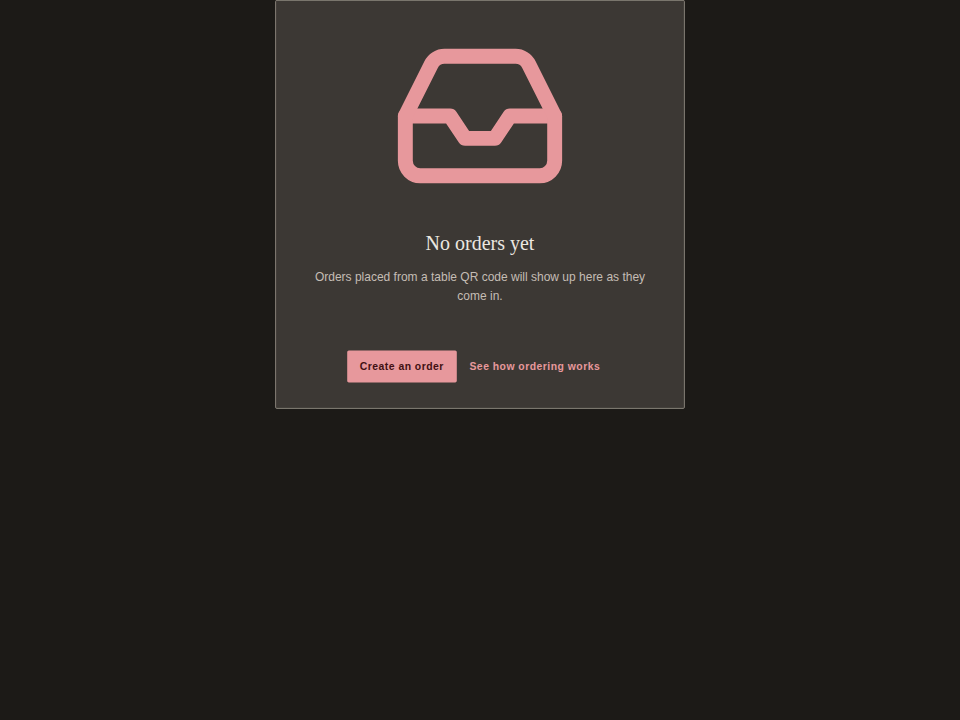
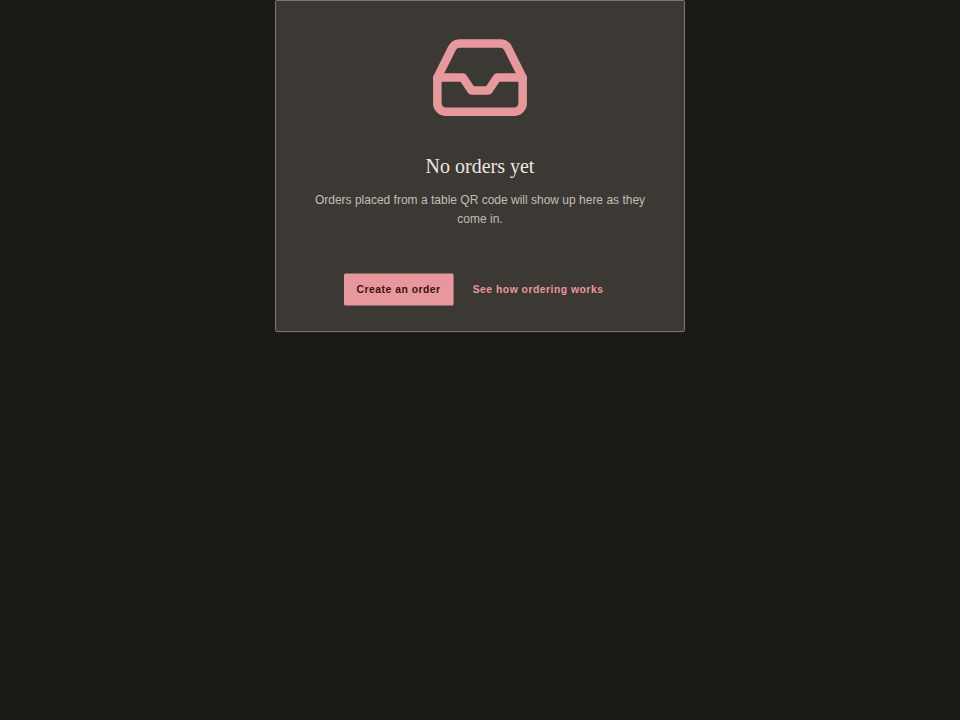
EmptyState's media follows its size, and a list row outside a list is not pressable
EmptyState drew its media from 128px up to 256px by the window's width,
with no prop for it, and its two actions touched. Three of the baseline's
builders passed a wrapper that threw the size away. The media now follows
size: 64dp, 128dp or 192dp, the same at every width; the actions sit 8dp
apart and wrap.

ListItem showed the pointer's hand wherever it was drawn. Six builders used
it in a plain list for rows that are read, and overrode the cursor. The hand
is now shown only inside a GridListItem, which is what makes a row pressable.

Changed region(s): [[0.3125, 0.0306, 0.6875, 0.4278], [0.2812, 0.4583, 0.7188, 0.5806]]

diff --git a/components/EmptyState.tsx b/components/EmptyState.tsx
@@ -10,18 +10,22 @@ const emptyState = tv({
     textContainer: "mb-8",
     title: "mb-4",
     description: "mb-6 text-on-surface-variant",
-    actionsContainer: "w-full flex justify-center",
+    media: "text-primary",
+    // The two actions sit 8dp apart, and stack where they do not fit.
+    actionsContainer: "w-full flex flex-wrap justify-center gap-2",
   },
   variants: {
     size: {
       sm: {
         base: "p-6",
+        media: "size-16",
         mediaContainer: "mb-6",
         textContainer: "mb-6",
       },
-      md: {},
+      md: { media: "size-32" },
       lg: {
         base: "p-10",
+        media: "size-48",
         mediaContainer: "mb-10",
         textContainer: "mb-10",
       },
@@ -47,7 +51,11 @@ interface EmptyStateProps extends VariantProps<typeof emptyState> {
  *
  * It draws a box of its own: `surface-container-highest` with an `outline`
  * border and the medium corner, centred in what holds it (`m-auto`) and at
- * most `max-w-lg` wide, padded by `size` (`sm`, `md` the default, `lg`). To draw
+ * most `max-w-lg` wide. `size` (`sm`, `md` the default, `lg`) sets its
+ * padding and its media together: 64dp, 128dp or 192dp, the same at every
+ * window width, so `sm` suits a panel or a phone and `lg` an empty page. The
+ * media is any SVG component, drawn on `primary`. The two actions sit 8dp
+ * apart and stack where they do not fit. To draw
  * it bare inside a card or a table, pass
  * `className="border-0 bg-transparent"`.
  *
@@ -75,6 +83,7 @@ export default function EmptyState(props: EmptyStateProps) {
     title: titleClass,
     description: descriptionClass,
     actionsContainer,
+    media: mediaClass,
   } = emptyState({ size });
 
   return (
@@ -82,7 +91,7 @@ export default function EmptyState(props: EmptyStateProps) {
       <div className={content()}>
         {Media && (
           <div className={mediaContainer()}>
-            <Media className="text-primary h-32 w-32 sm:h-40 sm:w-40 md:h-48 md:w-48 lg:h-56 lg:w-56 xl:h-64 xl:w-64" />
+            <Media className={mediaClass()} />
           </div>
         )}
         <div className={textContainer()}>

diff --git a/stories/containment/ListItem.stories.tsx b/stories/containment/ListItem.stories.tsx
@@ -2,6 +2,7 @@ import type { Meta, StoryObj } from "@storybook/react-vite";
 import React from "react";
 import { expect } from "storybook/test";
 import ListItem from "@french-tech-homies/design-system/components/ListItem";
+import { GridList, GridListItem } from "@french-tech-homies/design-system/components/GridList";
 import { Checkbox } from "@french-tech-homies/design-system/components/Checkbox";
 
 /** Plain `<img>` so the story has no framework dependency (the Next image component needs the Next runtime). */
@@ -123,5 +124,34 @@ export const LongNameCutToOneLine: Story = {
     await expect(text.getBoundingClientRect().right).toBeLessThanOrEqual(
       row.getBoundingClientRect().right,
     );
+  },
+};
+
+/**
+ * Outside a `GridList` the row is read, not pressed: it shows no pointer's
+ * hand.
+ */
+export const ReadOnlyInAPlainList: Story = {
+  render: () => (
+    <ul className="bg-surface w-80">
+      <li>
+        <ListItem headline="Ada Martin" supportingText="Owner" />
+      </li>
+      <li>
+        <ListItem headline="Grace Hopper" supportingText="Editor" />
+      </li>
+      <li>
+        <GridList aria-label="Pressable" onAction={() => undefined}>
+          <GridListItem id="linus" textValue="Linus Torvalds">
+            <ListItem headline="Linus Torvalds" supportingText="In a GridList" />
+          </GridListItem>
+        </GridList>
+      </li>
+    </ul>
+  ),
+  play: async ({ canvasElement }) => {
+    const rows = canvasElement.querySelectorAll("[data-slot=list-item]");
+    await expect(getComputedStyle(rows[0]!).cursor).not.toBe("pointer");
+    await expect(getComputedStyle(rows[2]!).cursor).toBe("pointer");
   },
 };

diff --git a/components/ListItem.tsx b/components/ListItem.tsx
@@ -5,7 +5,9 @@ import { focusRing, tv, type VariantProps } from "../utils";
 const styles = tv({
   extend: focusRing,
   slots: {
-    base: "w-full min-h-[56px] py-2 flex items-center relative overflow-hidden transition-colors duration-short-4 cursor-pointer",
+    // The pointer's hand only inside a `GridListItem`, which is what makes
+    // a row pressable: a row in a plain `ul` is read, not pressed.
+    base: "w-full min-h-[56px] py-2 flex items-center relative overflow-hidden transition-colors duration-short-4 in-data-[slot=grid-list-item]:cursor-pointer",
     stateLayer: [
       "absolute inset-0 transition pointer-events-none",
       "bg-on-surface opacity-0 group-hover/grid-list-item:state-opacity-hover group-data-focus-visible/grid-list-item:state-opacity-focus group-data-pressed/grid-list-item:state-opacity-pressed group-data-dragging/grid-list-item:state-opacity-dragged",
@@ -37,7 +39,7 @@ const styles = tv({
     },
     isDisabled: {
       true: {
-        base: "text-on-surface/38 cursor-default",
+        base: "text-on-surface/38 in-data-[slot=grid-list-item]:cursor-default",
         headline: "text-on-surface/38",
         supportingText: "text-on-surface-variant/38",
       },
@@ -85,6 +87,8 @@ export type ListItemProps = VariantProps<typeof styles> & {
 /**
  * MD3 list item: a headline, optional supporting text, and a leading and a
  * trailing element. It draws the row; `GridListItem` gives it its behaviour.
+ * In a plain `ul` or `li` it is a row that is read: no hover, no pointer's
+ * hand, nothing to press.
  *
  *   <ListItem
  *     headline="Design principles"
